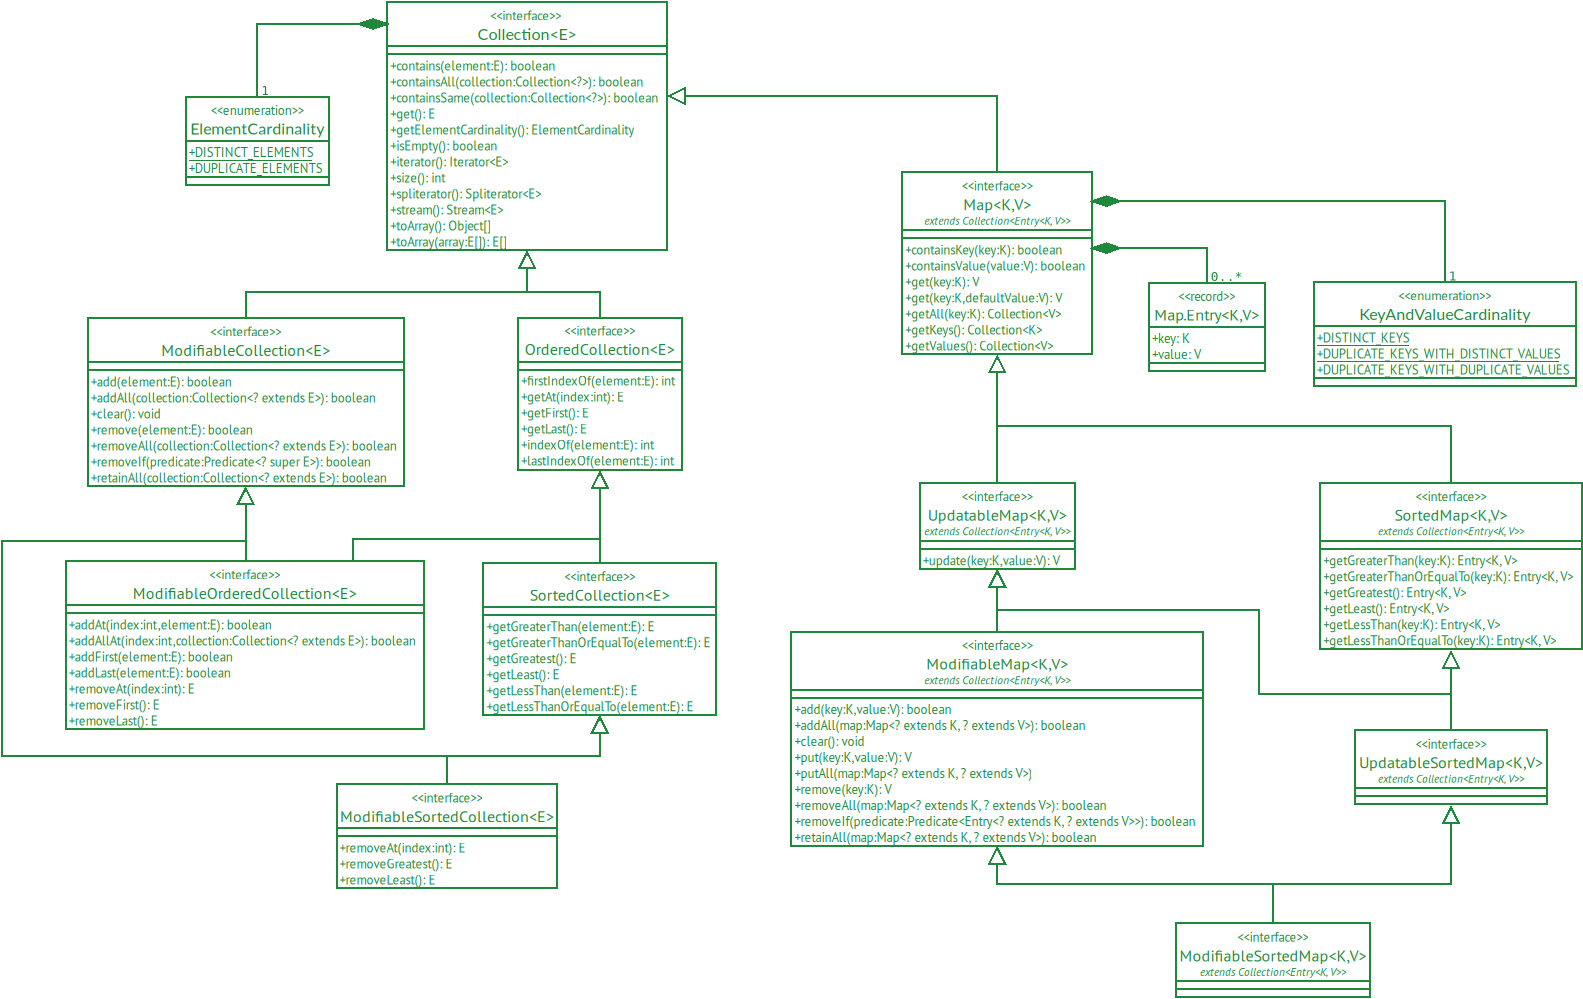
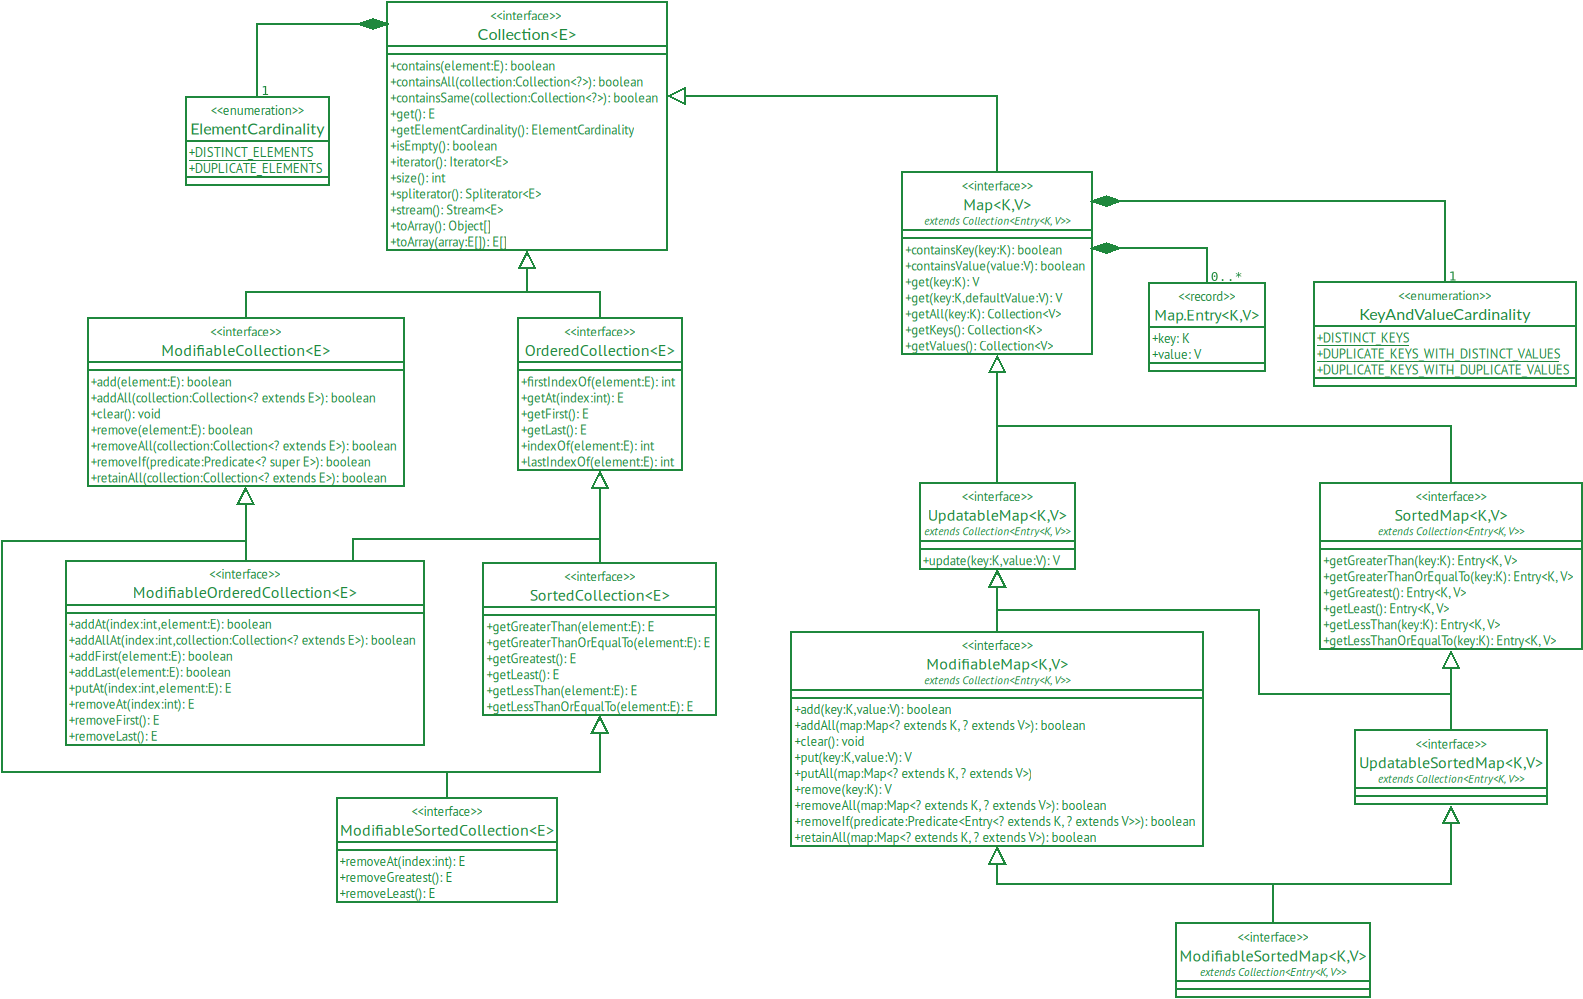
Issue #71: Defined more methods for release 1.0 from java.util.List

Changed region(s): [[0.0, 0.5586, 0.3714, 0.8999], [0.3095, 0.3103, 0.4334, 0.4655]]

diff --git a/README.md b/README.md
@@ -143,22 +143,22 @@ The table below shows how the methods defined on the
 [java.util.List&lt;E>](https://docs.oracle.com/en/java/javase/21/docs/api/java.base/java/util/List.html) interface map
 to Kolektoj methods.
 
-| JDK 21 Method                                                   | Kolektoj Class                    | Kolektoj Method                                                                                                     |
-|-----------------------------------------------------------------|-----------------------------------|---------------------------------------------------------------------------------------------------------------------|
-| boolean add(int index, E element)                               | ModifiableOrderedCollection&lt;E> | boolean addAt(int index, E element)                                                                                 |
-| boolean addAll(int index, Collection&lt;? extends E> c)         | ModifiableOrderedCollection&lt;E> | boolean addAllAt(int index, Collection&lt;? extends E> collection)                                                  |
-| static &lt;E> List&lt;E> copyOf(Collection&lt;? extends E> coll)| OrderedCollection&lt;F>           | static &lt;F> OrderedCollection&lt;F> of(OrderedCollection<? extends F> collection)                                 |
-| E get(int index)                                                | OrderedCollection&lt;E>           | E getAt(int index)                                                                                                  |
-| int indexOf(Object o)                                           | OrderedCollection&lt;E>           | int firstIndexOf(E element)                                                                                         |
-| int lastIndexOf(Object o)                                       | OrderedCollection&lt;E>           | int lastIndexOf(E element)                                                                                          |
-| ListIterator&lt;E> listIterator()                               |                                   |                                                                                                                     |
-| ListIterator&lt;E> listIterator(int index)                      |                                   |                                                                                                                     |
-| static &lt;E> List&lt;E> of(…)                                  | OrderedCollection&lt;F>           | static &lt;F> OrderedCollection&lt;F> of(…)                                                                         |
-| E remove(int index)                                             | ModifiableOrderedCollection&lt;E> | E removeAt(int index)                                                                                               |
-| default void replaceAll(UnaryOperator&lt;E> operator)           |                                   |                                                                                                                     |
-| E set(int index, E element)                                     |                                   |                                                                                                                     |
-| default void sort(Comparator&lt;? super E> c)                   | SortedCollection&lt;F>            | static &lt;F> SortedCollection&lt;F> of(Comparator&lt;? super F> comparator, Collection&lt;? extends F> collection) |
-| List&lt;E> subList(int fromIndex, int toIndex)                  |                                   |                                                                                                                     |
+| JDK 21 Method                                                    | Kolektoj Class                    | Kolektoj Method                                                                                                     |
+|------------------------------------------------------------------|-----------------------------------|---------------------------------------------------------------------------------------------------------------------|
+| boolean add(int index, E element)                                | ModifiableOrderedCollection&lt;E> | boolean addAt(int index, E element)                                                                                 |
+| boolean addAll(int index, Collection&lt;? extends E> c)          | ModifiableOrderedCollection&lt;E> | boolean addAllAt(int index, Collection&lt;? extends E> collection)                                                  |
+| static &lt;E> List&lt;E> copyOf(Collection&lt;? extends E> coll) | OrderedCollection&lt;F>           | static &lt;F> OrderedCollection&lt;F> of(OrderedCollection&lt;? extends F> collection)                              |
+| E get(int index)                                                 | OrderedCollection&lt;E>           | E getAt(int index)                                                                                                  |
+| int indexOf(Object o)                                            | OrderedCollection&lt;E>           | int firstIndexOf(E element)                                                                                         |
+| int lastIndexOf(Object o)                                        | OrderedCollection&lt;E>           | int lastIndexOf(E element)                                                                                          |
+| ListIterator&lt;E> listIterator()                                |                                   |                                                                                                                     |
+| ListIterator&lt;E> listIterator(int index)                       |                                   |                                                                                                                     |
+| static &lt;E> List&lt;E> of(…)                                   | OrderedCollection&lt;F>           | static &lt;F> OrderedCollection&lt;F> of(…)                                                                         |
+| E remove(int index)                                              | ModifiableOrderedCollection&lt;E> | E removeAt(int index)                                                                                               |
+| default void replaceAll(UnaryOperator&lt;E> operator)            |                                   |                                                                                                                     |
+| E set(int index, E element)                                      | ModifiableOrderedCollection&lt;E> | E putAt(int index, E element)                                                                                       |
+| default void sort(Comparator&lt;? super E> c)                    | SortedCollection&lt;F>            | static &lt;F> SortedCollection&lt;F> of(Comparator&lt;? super F> comparator, Collection&lt;? extends F> collection) |
+| List&lt;E> subList(int fromIndex, int toIndex)                   | OrderedCollection&lt;F>           | static &lt;F> OrderedCollection&lt;F> of(OrderedCollection&lt;? extends F> collection, int fromIndex, int toIndex)  |
 
 #### java.util.Map&lt;K,V>
 
